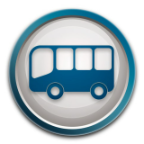
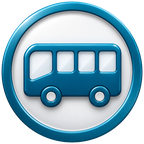
Нова іконка (кругла, без темних смужок); заставку прибрано

diff --git a/index.html b/index.html
@@ -12,7 +12,7 @@
 <meta property="og:title" content="Розклад Терешки">
 <meta property="og:type" content="website">
 <link rel="manifest" href="/icons/manifest.json">
-<link rel="apple-touch-icon" href="/icons/icon-192x192.png">
+<link rel="apple-touch-icon" href="/icons/icon-180x180.png">
 <link rel="icon" href="/icons/favicon.ico" sizes="32x32">
 <meta name="msapplication-config" content="/browserconfig.xml">
 <link rel="stylesheet" href="app.css">
@@ -22,37 +22,11 @@
 <script>window.__pwaPromptEvent=null;window.addEventListener('beforeinstallprompt',function(e){e.preventDefault();window.__pwaPromptEvent=e;if(window.__pwaOnPrompt)window.__pwaOnPrompt(e)});</script>
 </head>
 <body data-page="index" data-install="banner">
-<div id="app-splash">
-  <div class="splash-content">
-    <img src="/icons/icon-192x192.png" class="splash-icon" alt="">
-    <div class="splash-title">РАСПИСЮЛЬКА</div>
-  </div>
-</div>
-<script>
-// Заставка — лише при ЗАПУСКУ встановленого додатку (standalone), один раз за запуск.
-// Повернення на головну з іншої сторінки заставку не показує.
-(function () {
-  var standalone = window.matchMedia('(display-mode: standalone)').matches
-    || window.navigator.standalone === true;
-  var seen = false;
-  try { seen = sessionStorage.getItem('splashShown') === '1'; } catch (e) {}
-  try { if (document.referrer && new URL(document.referrer).origin === location.origin) seen = true; } catch (e) {}
-  window.__showSplash = standalone && !seen;
-  var el = document.getElementById('app-splash');
-  if (window.__showSplash) {
-    try { sessionStorage.setItem('splashShown', '1'); } catch (e) {}
-  } else if (el) {
-    el.remove();
-  }
-})();
-</script>
 <header class="hdr"></header>
 <main id="app"></main>
 
 <script src="schedule-data.js"></script>
 <script src="pwa-install.js"></script>
-<script src="splash-screen.js"></script>
-<script>if (window.__showSplash) SplashScreen.init();</script>
 <script src="app.js"></script>
 <script src="console.js"></script>
 </body>

diff --git a/app.css b/app.css
@@ -225,17 +225,6 @@ body[data-page="info"] { padding-bottom: 120px; font-weight: 500; font-size: 16p
   box-shadow: 0 6px 24px rgba(0, 0, 0, .35);
 }
 
-/* ---------- ЗАСТАВКА (тільки в встановленому додатку) ----------
-   Простий екран кольору теми з іконкою й назвою — з'являється одразу (без шторок і
-   «спалаху» сторінки), після завантаження плавно розчиняється. */
-#app-splash { position: fixed; inset: 0; z-index: 99999; background: var(--bg-0); display: flex; align-items: center; justify-content: center; transition: opacity .3s ease; }
-#app-splash.out { opacity: 0; pointer-events: none; }
-.splash-content { display: flex; flex-direction: column; align-items: center; gap: 16px; animation: splashIn .35s ease-out both; }
-@keyframes splashIn { from { opacity: 0; transform: scale(.94); } to { opacity: 1; transform: none; } }
-.splash-icon { width: 96px; height: 96px; border-radius: 22px; box-shadow: 0 6px 20px rgba(0, 0, 0, .22); }
-.splash-title { font-size: 20px; font-weight: 700; color: var(--label); letter-spacing: .6px; }
-@media (prefers-reduced-motion: reduce) { .splash-content { animation: none; } #app-splash { transition: none; } }
-
 /* ---------- ВУЗЬКІ ЕКРАНИ ---------- */
 @media (max-width: 380px) {
   body { font-size: 15px; }

diff --git a/sw.js b/sw.js
@@ -8,14 +8,14 @@
 //    показує «Розклад оновлено — торкніться».
 // /api/* ніколи не кешуємо.
 
-const CACHE = 'rozklad-v3';   // змінюй число, щоб примусово скинути старий кеш у всіх
+const CACHE = 'rozklad-v4';   // змінюй число, щоб примусово скинути старий кеш у всіх
 const NET_TIMEOUT = 2500;     // мс очікування мережі, потім — кеш
 
 const PRECACHE = [
   './', 'index.html', 'pereizd.html', 'tereschky.html', 'otg.html',
   'mykilske.html', 'elektrychky.html', 'mynivka.html', 'kashubivka.html', 'vovkivka.html',
   'verkholy.html', 'golovach.html', 'info.html', 'install.html',
-  'app.css', 'app.js', 'schedule-data.js', 'pwa-install.js', 'splash-screen.js', 'console.js',
+  'app.css', 'app.js', 'schedule-data.js', 'pwa-install.js', 'console.js',
   'icons/manifest.json', 'icons/qr-app.png', 'icons/icon-192x192.png', 'icons/favicon.ico'
 ];
 

diff --git a/otg.html b/otg.html
@@ -12,7 +12,7 @@
 <meta property="og:title" content="Розклад Копили — Терешки — Писарівка">
 <meta property="og:type" content="website">
 <link rel="manifest" href="/icons/manifest.json">
-<link rel="apple-touch-icon" href="/icons/icon-192x192.png">
+<link rel="apple-touch-icon" href="/icons/icon-180x180.png">
 <link rel="icon" href="/icons/favicon.ico" sizes="32x32">
 <meta name="msapplication-config" content="/browserconfig.xml">
 <link rel="stylesheet" href="app.css">

diff --git a/install.html b/install.html
@@ -12,7 +12,7 @@
 <meta property="og:title" content="Розклад — як встановити">
 <meta property="og:type" content="website">
 <link rel="manifest" href="/icons/manifest.json">
-<link rel="apple-touch-icon" href="/icons/icon-192x192.png">
+<link rel="apple-touch-icon" href="/icons/icon-180x180.png">
 <link rel="icon" href="/icons/favicon.ico" sizes="32x32">
 <meta name="msapplication-config" content="/browserconfig.xml">
 <link rel="stylesheet" href="app.css">

diff --git a/elektrychky.html b/elektrychky.html
@@ -12,7 +12,7 @@
 <meta property="og:title" content="Розклад Електрички">
 <meta property="og:type" content="website">
 <link rel="manifest" href="/icons/manifest.json">
-<link rel="apple-touch-icon" href="/icons/icon-192x192.png">
+<link rel="apple-touch-icon" href="/icons/icon-180x180.png">
 <link rel="icon" href="/icons/favicon.ico" sizes="32x32">
 <meta name="msapplication-config" content="/browserconfig.xml">
 <link rel="stylesheet" href="app.css">

diff --git a/mykilske.html b/mykilske.html
@@ -12,7 +12,7 @@
 <meta property="og:title" content="Розклад Микільське">
 <meta property="og:type" content="website">
 <link rel="manifest" href="/icons/manifest.json">
-<link rel="apple-touch-icon" href="/icons/icon-192x192.png">
+<link rel="apple-touch-icon" href="/icons/icon-180x180.png">
 <link rel="icon" href="/icons/favicon.ico" sizes="32x32">
 <meta name="msapplication-config" content="/browserconfig.xml">
 <link rel="stylesheet" href="app.css">

diff --git a/kashubivka.html b/kashubivka.html
@@ -12,7 +12,7 @@
 <meta property="og:title" content="Розклад Кашубівка">
 <meta property="og:type" content="website">
 <link rel="manifest" href="/icons/manifest.json">
-<link rel="apple-touch-icon" href="/icons/icon-192x192.png">
+<link rel="apple-touch-icon" href="/icons/icon-180x180.png">
 <link rel="icon" href="/icons/favicon.ico" sizes="32x32">
 <meta name="msapplication-config" content="/browserconfig.xml">
 <link rel="stylesheet" href="app.css">

diff --git a/vovkivka.html b/vovkivka.html
@@ -12,7 +12,7 @@
 <meta property="og:title" content="Розклад Вовківка">
 <meta property="og:type" content="website">
 <link rel="manifest" href="/icons/manifest.json">
-<link rel="apple-touch-icon" href="/icons/icon-192x192.png">
+<link rel="apple-touch-icon" href="/icons/icon-180x180.png">
 <link rel="icon" href="/icons/favicon.ico" sizes="32x32">
 <meta name="msapplication-config" content="/browserconfig.xml">
 <link rel="stylesheet" href="app.css">

diff --git a/golovach.html b/golovach.html
@@ -12,7 +12,7 @@
 <meta property="og:title" content="Розклад Головач">
 <meta property="og:type" content="website">
 <link rel="manifest" href="/icons/manifest.json">
-<link rel="apple-touch-icon" href="/icons/icon-192x192.png">
+<link rel="apple-touch-icon" href="/icons/icon-180x180.png">
 <link rel="icon" href="/icons/favicon.ico" sizes="32x32">
 <meta name="msapplication-config" content="/browserconfig.xml">
 <link rel="stylesheet" href="app.css">

diff --git a/mynivka.html b/mynivka.html
@@ -12,7 +12,7 @@
 <meta property="og:title" content="Розклад Минівка">
 <meta property="og:type" content="website">
 <link rel="manifest" href="/icons/manifest.json">
-<link rel="apple-touch-icon" href="/icons/icon-192x192.png">
+<link rel="apple-touch-icon" href="/icons/icon-180x180.png">
 <link rel="icon" href="/icons/favicon.ico" sizes="32x32">
 <meta name="msapplication-config" content="/browserconfig.xml">
 <link rel="stylesheet" href="app.css">

diff --git a/pereizd.html b/pereizd.html
@@ -12,7 +12,7 @@
 <meta property="og:title" content="Розклад Переїзд">
 <meta property="og:type" content="website">
 <link rel="manifest" href="/icons/manifest.json">
-<link rel="apple-touch-icon" href="/icons/icon-192x192.png">
+<link rel="apple-touch-icon" href="/icons/icon-180x180.png">
 <link rel="icon" href="/icons/favicon.ico" sizes="32x32">
 <meta name="msapplication-config" content="/browserconfig.xml">
 <link rel="stylesheet" href="app.css">
